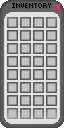
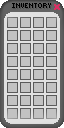
Minors inventory and item changes
-Add button to exit inventory
-Adds 2 new arrows
-Add character's velocity to the arrow when launched

diff --git a/src/fr/iutvalence/info/dut/m2107/inventory/ItemDatabase.java b/src/fr/iutvalence/info/dut/m2107/inventory/ItemDatabase.java
@@ -23,37 +23,17 @@ public class ItemDatabase {
 	 */
 	public static void create() {
 		// AMMUNIITON
-		//					TYPE	SPR							 			COL											ID	NAME				DESC					RARITY			MAX		VAL		DMG		KNO		SPD
-		itemDatabase.add(new Arrow	(SpriteDatabase.getArrowSpr(),			new Collider(-.01f, -.01f, .01f, .01f),		0, 	"Arrow",			"A basic arrow", 		Rarity.POOR,	50,		1,		1,		1,		25));
-		itemDatabase.add(new Arrow	(SpriteDatabase.getLightningArrowSpr(),	new Collider(-.01f, -.01f, .01f, .01f),		1,	"Lightning Arrow", 	"A lightning arrow",	Rarity.COMMON,	25,		5,		2,		20,		100));
+		//					TYPE	SPR							 			COL											ID	NAME				DESC					RARITY				MAX		VAL		DMG		KNO		SPD
+		itemDatabase.add(new Arrow	(SpriteDatabase.getArrowSpr(),			new Collider(-.01f, -.01f, .01f, .01f),		0, 	"Arrow",			"A basic arrow", 		Rarity.POOR,		50,		1,		1,		1,		25));
+		itemDatabase.add(new Arrow	(SpriteDatabase.getLightningArrowSpr(),	new Collider(-.01f, -.01f, .01f, .01f),		1,	"Lightning Arrow", 	"A lightning arrow",	Rarity.UNCOMMON,	25,		5,		2,		20,		50));
 		
 		// WEAPON
 		//					TYPE	SPR								ID	NAME		DESC				RARITY			MAX		VAL		DMG 	RNG		USE		KNOC
 		itemDatabase.add(new Bow	(SpriteDatabase.getBowSpr(),	2,	"Bow",		"A simple bow",		Rarity.POOR,	1,		3, 		3, 		0, 		.5f,	3));
 		itemDatabase.add(new Sword	(SpriteDatabase.getSwordSpr(),	3,	"Sword",	"A simple Sword",	Rarity.POOR,	1,		3, 		5, 		3, 		.25f,	7));
-		itemDatabase.add(new Sword	(SpriteDatabase.getSwordSpr(),	4,	"Sword1",	"A simple Sword1",	Rarity.POOR,	1,		3, 		5, 		3, 		.25f,	7));
-		itemDatabase.add(new Sword	(SpriteDatabase.getSwordSpr(),	5,	"Sword2",	"A simple Sword2",	Rarity.POOR,	1,		3, 		5, 		3, 		.25f,	7));
-		itemDatabase.add(new Sword	(SpriteDatabase.getSwordSpr(),	6,	"Sword3",	"A simple Sword3",	Rarity.POOR,	1,		3, 		5, 		3, 		.25f,	7));
-		itemDatabase.add(new Sword	(SpriteDatabase.getSwordSpr(),	7,	"Sword4",	"A simple Sword4",	Rarity.POOR,	1,		3, 		5, 		3, 		.25f,	7));
-		itemDatabase.add(new Sword	(SpriteDatabase.getSwordSpr(),	8,	"Sword5",	"A simple Sword5",	Rarity.POOR,	1,		3, 		5, 		3, 		.25f,	7));
-		itemDatabase.add(new Bow	(SpriteDatabase.getBowSpr(),	9,	"Bow1",		"A simple bow",		Rarity.POOR,	1,		3, 		3, 		0, 		.5f,	3));
-		itemDatabase.add(new Bow	(SpriteDatabase.getBowSpr(),	10,	"Bow2",		"A simple bow",		Rarity.POOR,	1,		3, 		3, 		0, 		.5f,	3));
-		itemDatabase.add(new Bow	(SpriteDatabase.getBowSpr(),	11,	"Bow3",		"A simple bow",		Rarity.POOR,	1,		3, 		3, 		0, 		.5f,	3));
-		itemDatabase.add(new Bow	(SpriteDatabase.getBowSpr(),	12,	"Bow4",		"A simple bow",		Rarity.POOR,	1,		3, 		3, 		0, 		.5f,	3));
-		itemDatabase.add(new Bow	(SpriteDatabase.getBowSpr(),	13,	"Bow5",		"A simple bow",		Rarity.POOR,	1,		3, 		3, 		0, 		.5f,	3));
-		itemDatabase.add(new Bow	(SpriteDatabase.getBowSpr(),	14,	"Bow6",		"A simple bow",		Rarity.POOR,	1,		3, 		3, 		0, 		.5f,	3));
-		itemDatabase.add(new Bow	(SpriteDatabase.getBowSpr(),	15,	"Bow7",		"A simple bow",		Rarity.POOR,	1,		3, 		3, 		0, 		.5f,	3));
-		itemDatabase.add(new Bow	(SpriteDatabase.getBowSpr(),	16,	"Bow8",		"A simple bow",		Rarity.POOR,	1,		3, 		3, 		0, 		.5f,	3));
-		itemDatabase.add(new Sword	(SpriteDatabase.getSwordSpr(),	17,	"Sword6",	"A simple Sword5",	Rarity.POOR,	1,		3, 		5, 		3, 		.25f,	7));
-		itemDatabase.add(new Sword	(SpriteDatabase.getSwordSpr(),	18,	"Sword7",	"A simple Sword5",	Rarity.POOR,	1,		3, 		5, 		3, 		.25f,	7));
-		itemDatabase.add(new Sword	(SpriteDatabase.getSwordSpr(),	19,	"Sword8",	"A simple Sword5",	Rarity.POOR,	1,		3, 		5, 		3, 		.25f,	7));
-		itemDatabase.add(new Sword	(SpriteDatabase.getSwordSpr(),	20,	"Sword9",	"A simple Sword5",	Rarity.POOR,	1,		3, 		5, 		3, 		.25f,	7));
-		itemDatabase.add(new Sword	(SpriteDatabase.getSwordSpr(),	21,	"Sword10",	"A simple Sword5",	Rarity.POOR,	1,		3, 		5, 		3, 		.25f,	7));
-		itemDatabase.add(new Sword	(SpriteDatabase.getSwordSpr(),	22,	"Sword11",	"A simple Sword5",	Rarity.POOR,	1,		3, 		5, 		3, 		.25f,	7));
-		itemDatabase.add(new Sword	(SpriteDatabase.getSwordSpr(),	23,	"Sword12",	"A simple Sword5",	Rarity.POOR,	1,		3, 		5, 		3, 		.25f,	7));
-		itemDatabase.add(new Sword	(SpriteDatabase.getSwordSpr(),	24,	"Sword13",	"A simple Sword5",	Rarity.POOR,	1,		3, 		5, 		3, 		.25f,	7));
-		itemDatabase.add(new Sword	(SpriteDatabase.getSwordSpr(),	25,	"Sword14",	"A simple Sword5",	Rarity.POOR,	1,		3, 		5, 		3, 		.25f,	7));
-
+		
+		itemDatabase.add(new Arrow	(SpriteDatabase.getFrozenArrowSpr(),	new Collider(-.01f, -.01f, .01f, .01f),		4,	"Frozen Arrow", 	"A frozen arrow",		Rarity.UNCOMMON,	25,		5,		2,		3,		38));
+		itemDatabase.add(new Arrow	(SpriteDatabase.getBurningArrowSpr(),	new Collider(-.01f, -.01f, .01f, .01f),		5,	"Burning Arrow", 	"A burning arrow",		Rarity.UNCOMMON,	25,		5,		2,		3,		38));
 	}
 	
 	/**

diff --git a/src/fr/iutvalence/info/dut/m2107/entities/Player.java b/src/fr/iutvalence/info/dut/m2107/entities/Player.java
@@ -37,7 +37,7 @@ public class Player extends Character{
 	// Temporary
 	private float width = 0.1f;
 	private float height = 0.1f;
-	private float posY = 2 - height*1.5f;
+	private float posY = -.85f;
 	private int selectSlot = 0;
 	private GUIElement selectQuickBar;
 	
@@ -45,6 +45,7 @@ public class Player extends Character{
 	private GUIElement hpGUI;
 	// Temporary
 	
+	private GUIElement quickBarGUI;
 	
 	protected float invulnerabilityTime;
 	protected float invulnerabilityFadeStep = -0.1f;
@@ -97,6 +98,9 @@ public class Player extends Character{
 	}
 	
 	public void init() {
+		this.quickBarGUI = new GUIElement(SpriteDatabase.getQuickBarStr(), new Vector2f(0, posY), width*this.quickBar.length, height);
+		GameWorld.guiLayerMap.getLayer(1).add(this.quickBarGUI);
+		
 		this.hpGUI = new GUIElement(SpriteDatabase.getHeartStr(), new Vector2f(-1 + width, 1 - height), width/2, height/2);
 		
 		this.initLayer();
@@ -114,28 +118,8 @@ public class Player extends Character{
 		// TODO Take the item saved from a file save
 		addItem(ItemDatabase.get(0), 10);
 		addItem(ItemDatabase.get(1), 5);
-		addItem(ItemDatabase.get(4), 1);
-		addItem(ItemDatabase.get(5), 1);
-		addItem(ItemDatabase.get(6), 1);
-		addItem(ItemDatabase.get(7), 1);
-		addItem(ItemDatabase.get(8), 1);
-		addItem(ItemDatabase.get(9), 1);
-		addItem(ItemDatabase.get(10), 1);
-		addItem(ItemDatabase.get(11), 1);
-		addItem(ItemDatabase.get(12), 1);
-		addItem(ItemDatabase.get(13), 1);
-		addItem(ItemDatabase.get(14), 1);
-		addItem(ItemDatabase.get(15), 1);
-		addItem(ItemDatabase.get(16), 1);
-		addItem(ItemDatabase.get(17), 1);
-		addItem(ItemDatabase.get(18), 1);
-		addItem(ItemDatabase.get(19), 1);
-		addItem(ItemDatabase.get(20), 1);
-		addItem(ItemDatabase.get(21), 1);
-		addItem(ItemDatabase.get(22), 1);
-		addItem(ItemDatabase.get(23), 1);
-		addItem(ItemDatabase.get(24), 1);
-		addItem(ItemDatabase.get(25), 1);
+		addItem(ItemDatabase.get(4), 5);
+		addItem(ItemDatabase.get(5), 5);
 	}
 	
 	/**
@@ -151,7 +135,7 @@ public class Player extends Character{
 		for (int slotNumber = 0; slotNumber < this.quickBar.length; slotNumber++) {
 			if(this.quickBar[slotNumber].getItem() != null) {
 
-				this.quickBar[slotNumber].setItemSprite(new GUIMovable(new GUISprite(this.quickBar[slotNumber].getItem().getSprite().getAtlas(), this.quickBar[slotNumber].getItem().getSprite().getSize()), new Vector2f((-width * (this.quickBar.length-1)/2)+width*slotNumber, -0.85f), width, height));
+				this.quickBar[slotNumber].setItemSprite(new GUIMovable(new GUISprite(this.quickBar[slotNumber].getItem().getSprite().getAtlas(), this.quickBar[slotNumber].getItem().getSprite().getSize()), new Vector2f(-width*this.quickBar.length/2 + width*(slotNumber+.5f), 0), width, height));
 				this.quickBar[slotNumber].setQuantity(new GUIText("" + this.quickBar[slotNumber].getItem().getStack() , .8f, -width, -width/4, width, true));
 				
 				this.quickBar[slotNumber].getItemSprite().setRotation(-45);
@@ -163,10 +147,11 @@ public class Player extends Character{
 				
 				this.quickBar[slotNumber].prepareDisplay();
 				
-				//GameWorld.guiLayerMap.getLayer(1).add(this.quickBar[slotNumber].getItemSprite());
+				this.quickBar[slotNumber].getItemSprite().setParent(this.quickBarGUI);
 			}
 		}
-		GameWorld.guiLayerMap.getLayer(1).add(selectQuickBar = new GUIElement(SpriteDatabase.getSelectQuickBarSlotStr(), new Vector2f(-width*3.5f + selectSlot*width, 1-posY), width, height));
+		selectQuickBar = new GUIElement(SpriteDatabase.getSelectQuickBarSlotStr(), new Vector2f(-width*this.quickBar.length/2 + width*.5f, 0), width, height);
+		selectQuickBar.setParent(quickBarGUI);
 	}
 
 	/* (non-Javadoc)
@@ -373,18 +358,16 @@ public class Player extends Character{
 	/**
 	 * Update the player velocity with inputs
 	 */
-	private void input() {		
+	private void input() {
 		if(isGrounded) rightWallJump = true;
 		if(isGrounded) leftWallJump = true;
 		if(isGrounded) wallSlide = false;
 		
-		if(Input.isInventory()) this.inventory.changeDisplay();
+		if(Input.isInventory() || this.inventory.getExitButton().clicked()) this.inventory.changeDisplay();
 		
 		if (GameWorld.camera.isFree()) {
 			if (Input.isJumping() && this.isGrounded) this.vel.y = this.jumpHeight;
 			
-			//if (Input.isMoveUp())	this.vel.y += this.spd/2;
-			//if (Input.isMoveDown())	this.vel.y += -this.spd/2;
 			if (Input.isMoveRight()) {
 				if(!rightWallJump || !leftWallJump) this.vel.x += this.spd/6;
 				else this.vel.x += this.spd;

diff --git a/src/fr/iutvalence/info/dut/m2107/entities/SpriteDatabase.java b/src/fr/iutvalence/info/dut/m2107/entities/SpriteDatabase.java
@@ -34,14 +34,20 @@ public class SpriteDatabase {
 	private final static EntitySprite lightningArrowSpr = new EntitySprite("item/lightning_arrow", new Vector2f(1, 1));
 	public static EntitySprite getLightningArrowSpr() {return lightningArrowSpr;}
 	
+	private final static EntitySprite frozenArrowSpr = new EntitySprite("item/frozen_arrow", new Vector2f(1, 1));
+	public static EntitySprite getFrozenArrowSpr() {return frozenArrowSpr;}
+	
+	private final static EntitySprite burningArrowSpr = new EntitySprite("item/burning_arrow", new Vector2f(1, 1));
+	public static EntitySprite getBurningArrowSpr() {return burningArrowSpr;}
+	
 	private final static EntitySprite chestSpr = new EntitySprite("entities/chest", new Vector2f(2, 2));
 	public static EntitySprite getChestSpr() {return chestSpr;}
 	
 	private final static String heartStr = "gui/heart";
 	public static String getHeartStr() {return heartStr;}
 	
-	private final static String quickBarSlotStr = "gui/quick_bar_slot";
-	public static String getQuickBarSlotStr() {return quickBarSlotStr;}
+	private final static String quickBarStr = "gui/quick_bar";
+	public static String getQuickBarStr() {return quickBarStr;}
 	
 	private final static String selectQuickBarSlotStr = "gui/select_quick_bar_slot";
 	public static String getSelectQuickBarSlotStr() {return selectQuickBarSlotStr;}

diff --git a/src/fr/iutvalence/info/dut/m2107/inventory/Inventory.java b/src/fr/iutvalence/info/dut/m2107/inventory/Inventory.java
@@ -5,8 +5,8 @@ import java.util.*;
 import org.lwjgl.util.vector.Vector2f;
 
 import fr.iutvalence.info.dut.m2107.entities.SpriteDatabase;
+import fr.iutvalence.info.dut.m2107.gui.GUIButton;
 import fr.iutvalence.info.dut.m2107.gui.GUIElement;
-import fr.iutvalence.info.dut.m2107.gui.GUIMovable;
 import fr.iutvalence.info.dut.m2107.gui.GUISprite;
 import fr.iutvalence.info.dut.m2107.storage.GameWorld;
 import fr.iutvalence.info.dut.m2107.toolbox.Maths;
@@ -30,6 +30,8 @@ public class Inventory {
 
 	public static final float height = 0.075f;
 	
+	private final GUIButton exitButton = new GUIButton(new GUISprite(SpriteDatabase.getEmptySpr().getAtlas(), SpriteDatabase.getEmptySpr().getSize()), new Vector2f(0.185f, 0.75f), width/1.5f, height/1.5f, "");
+	
 	private final GUIElement inventoryGUI = new GUIElement(SpriteDatabase.getInventoryGUIStr(), new Vector2f(0.7f, 0), width*(inventoryWidth+1)*1.25f, height*(inventoryWidth+1)*2*1.25f);
 	
 	/**
@@ -42,6 +44,8 @@ public class Inventory {
 		
 		GameWorld.player.initQuickBar();
 		GameWorld.player.initInventory();
+		
+		this.exitButton.setParent(this.inventoryGUI);
 	}
 	
 	/**
@@ -242,5 +246,7 @@ public class Inventory {
 	 * @return
 	 */
 	public GUIElement getInventoryGUI() {return inventoryGUI;}
+	
+	public GUIButton getExitButton() {return exitButton;}
 	
 }

diff --git a/src/fr/iutvalence/info/dut/m2107/inventory/Ammunition.java b/src/fr/iutvalence/info/dut/m2107/inventory/Ammunition.java
@@ -2,6 +2,7 @@ package fr.iutvalence.info.dut.m2107.inventory;
 
 import org.lwjgl.util.vector.Vector2f;
 
+import fr.iutvalence.info.dut.m2107.entities.Character;
 import fr.iutvalence.info.dut.m2107.entities.Collider;
 import fr.iutvalence.info.dut.m2107.models.EntitySprite;
 import fr.iutvalence.info.dut.m2107.render.DisplayManager;
@@ -127,13 +128,16 @@ public abstract class Ammunition extends Item {
 	
 	/**
 	 * Initialize the collision, the position, rotation and velocity of the ammunition
+	 * @param owner 
 	 */
-	public void initLaunch() {
+	public void initLaunch(Character owner) {
 		this.col = new Collider(this.col);
 		this.pos = new Vector2f(GameWorld.player.getPosition().x + GameWorld.player.getPivot().getPosition().x, GameWorld.player.getPosition().y + GameWorld.player.getPivot().getPosition().y);
 		this.rot = GameWorld.player.getDegreeShoot();
 		this.vel = new Vector2f(GameWorld.player.getShoot().x, GameWorld.player.getShoot().y);
 		this.vel.scale(this.speed);
+		this.vel.x += GameWorld.player.getVelocity().x/2;
+		this.vel.y += GameWorld.player.getVelocity().y/2;
 	}
 	
 	/**

diff --git a/src/fr/iutvalence/info/dut/m2107/inventory/Bow.java b/src/fr/iutvalence/info/dut/m2107/inventory/Bow.java
@@ -88,7 +88,7 @@ public class Bow extends Weapon {
 						arrow = new Arrow ((Arrow)((Player)owner).getQuickBarItem(i));
 						((Player)owner).removeQuickBarItem(i, 1);
 						arrow.addWeaponStats(this);
-						arrow.initLaunch();
+						arrow.initLaunch(owner);
 						GameWorld.layerMap.getStoredLayer(LayerStore.AMMUNITION).add(arrow);
 						break;
 					}
@@ -98,7 +98,7 @@ public class Bow extends Weapon {
 					if(arrow != null) {
 						GameWorld.player.getInventory().remove(arrow, 1);
 						arrow.addWeaponStats(this);
-						arrow.initLaunch();
+						arrow.initLaunch(owner);
 						GameWorld.layerMap.getStoredLayer(LayerStore.AMMUNITION).add(arrow);
 					} else System.out.println("No more arrow in inventory");
 				}

diff --git a/src/fr/iutvalence/info/dut/m2107/launcher/LauncherWindow.java b/src/fr/iutvalence/info/dut/m2107/launcher/LauncherWindow.java
@@ -58,7 +58,7 @@ public class LauncherWindow extends JFrame {
 		field_fps = new LIntegerField(60);
 		panel_graphics.add(field_fps);
 		panel_graphics.add(new JLabel("Render height: "));
-		field_render = new LIntegerField(20);
+		field_render = new LIntegerField(30);
 		panel_graphics.add(field_render);
 		
 		GridLayout layout_others = new GridLayout(1, 2);

diff --git a/src/fr/iutvalence/info/dut/m2107/gui/GUIButton.java b/src/fr/iutvalence/info/dut/m2107/gui/GUIButton.java
@@ -16,7 +16,7 @@ public class GUIButton extends GUILabel implements Listener {
 	/**
 	 * Used to determine whether the clicked event was handled by another object
 	 */
-	private boolean handled;
+	private boolean handled = true;
 	
 	/**
 	 * A GUIButton using the given sprite, position, width, and height

diff --git a/src/fr/iutvalence/info/dut/m2107/render/Renderer.java b/src/fr/iutvalence/info/dut/m2107/render/Renderer.java
@@ -32,7 +32,7 @@ public class Renderer {
 	/**
 	 * The amount of Units in height in the screen
 	 */
-	public static float UNITS_Y = 20;
+	public static float UNITS_Y = 30;
 	
 	/**
 	 * The left boundary of the screen

diff --git a/src/fr/iutvalence/info/dut/m2107/inventory/InventorySlot.java b/src/fr/iutvalence/info/dut/m2107/inventory/InventorySlot.java
@@ -29,7 +29,6 @@ public class InventorySlot {
 	
 	public void prepareDisplay() {
 		quantity.setParent(itemSprite);
-		GameWorld.guiLayerMap.getLayer(1).add(this.itemSprite);
 	}
 	
 	public void empty() {
